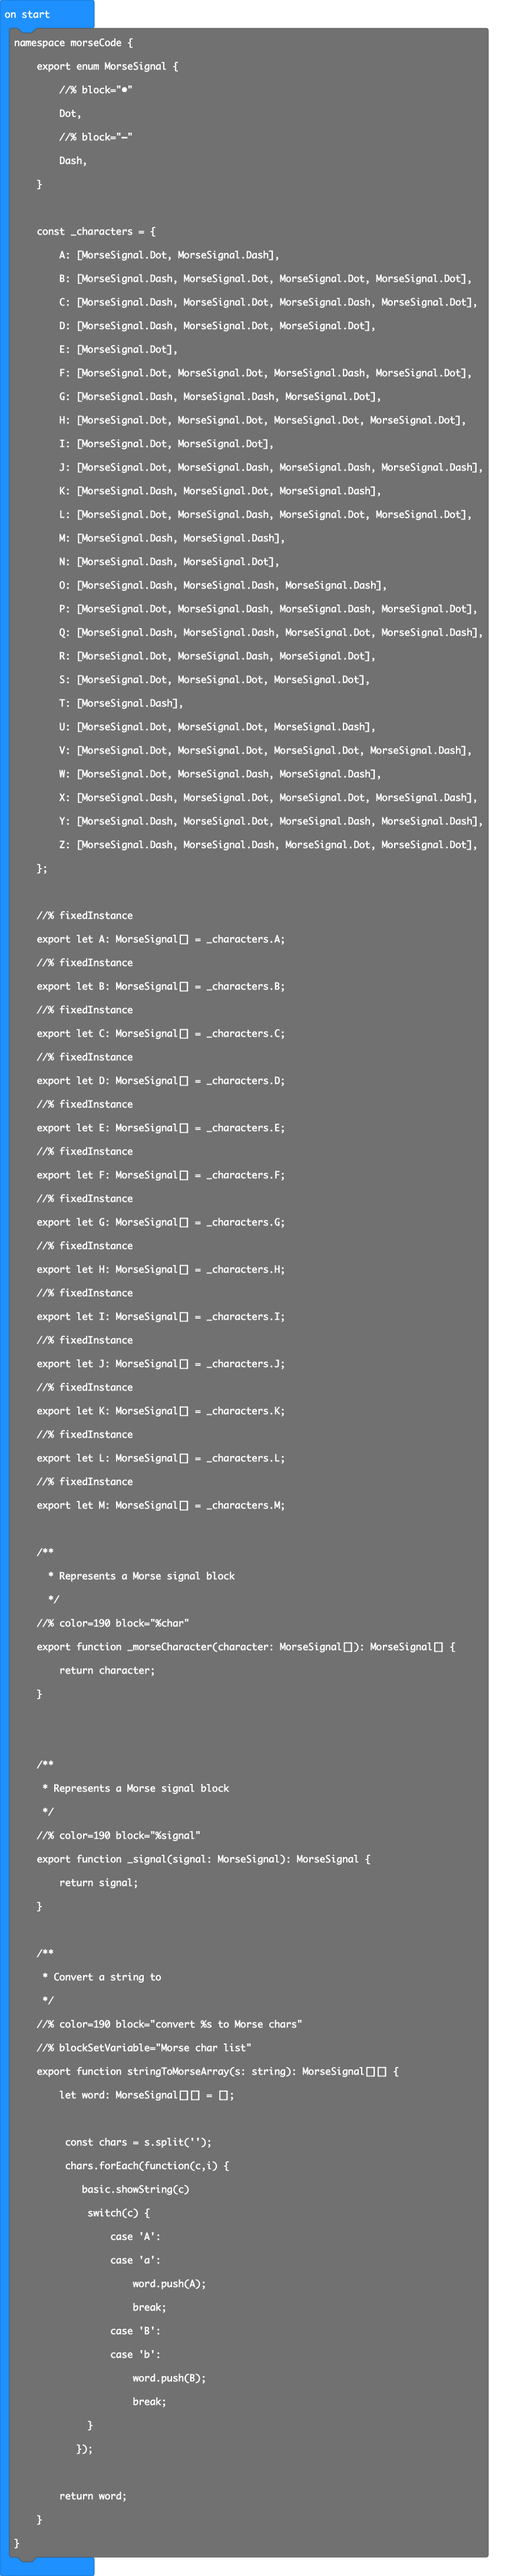
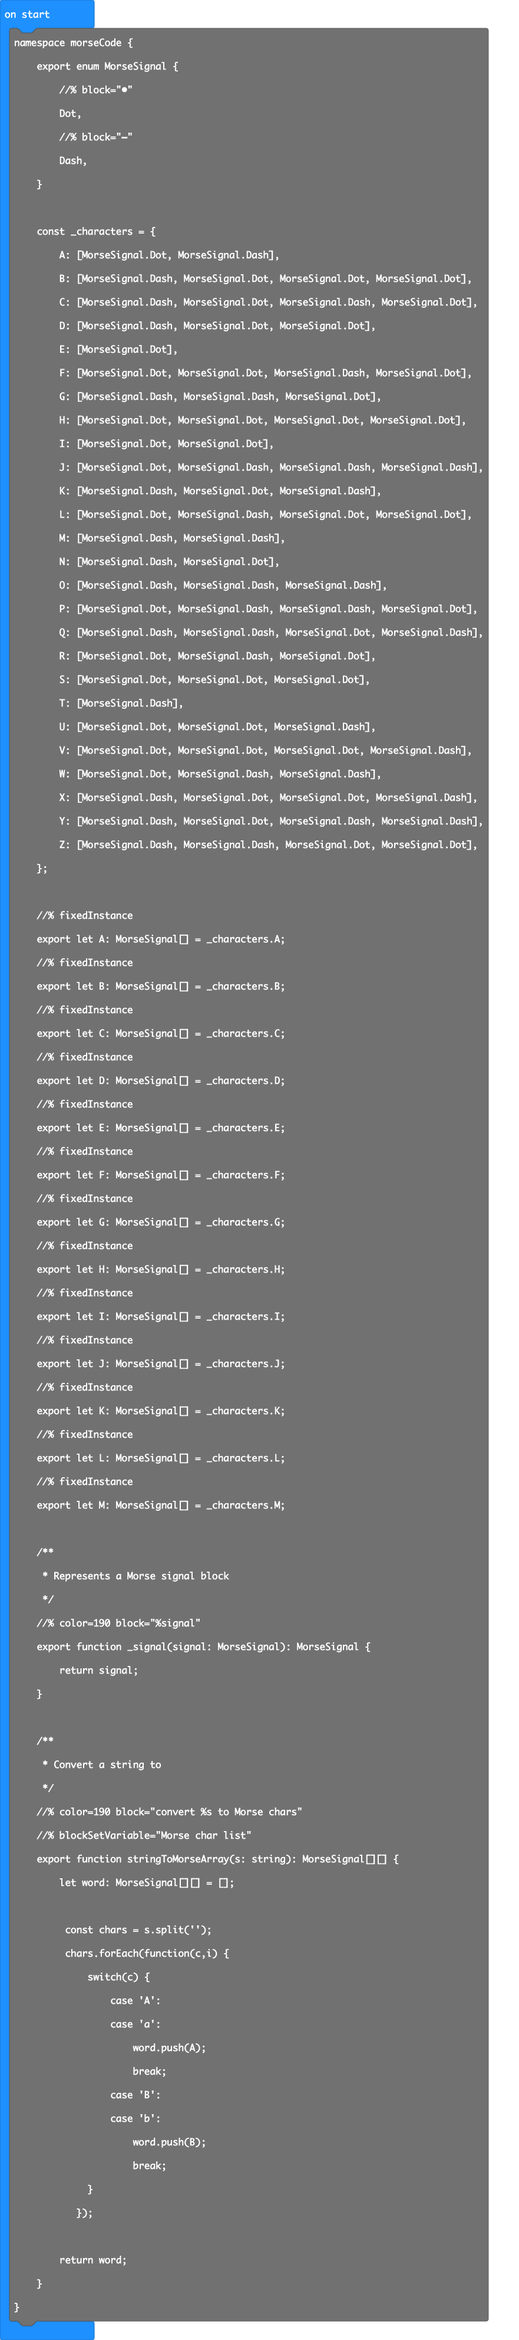
done with initial version

diff --git a/main.ts b/main.ts
@@ -61,14 +61,32 @@ namespace morseCode {
     export let L: MorseSignal[] = _characters.L;
     //% fixedInstance
     export let M: MorseSignal[] = _characters.M;
-
-    /**
-      * Represents a Morse signal block
-      */
-    //% color=190 block="%char"
-    export function _morseCharacter(character: MorseSignal[]): MorseSignal[] {
-        return character;
-    }
+    //% fixedInstance
+    export let N: MorseSignal[] = _characters.N;
+    //% fixedInstance
+    export let O: MorseSignal[] = _characters.O;
+    //% fixedInstance
+    export let P: MorseSignal[] = _characters.P;
+    //% fixedInstance
+    export let Q: MorseSignal[] = _characters.Q;
+    //% fixedInstance
+    export let R: MorseSignal[] = _characters.R;
+    //% fixedInstance
+    export let S: MorseSignal[] = _characters.S;
+    //% fixedInstance
+    export let T: MorseSignal[] = _characters.T;
+    //% fixedInstance
+    export let U: MorseSignal[] = _characters.U;
+    //% fixedInstance
+    export let V: MorseSignal[] = _characters.V;
+    //% fixedInstance
+    export let W: MorseSignal[] = _characters.W;
+    //% fixedInstance
+    export let X: MorseSignal[] = _characters.X;
+    //% fixedInstance
+    export let Y: MorseSignal[] = _characters.Y;
+    //% fixedInstance
+    export let Z: MorseSignal[] = _characters.Z;
 
 
     /**
@@ -87,20 +105,115 @@ namespace morseCode {
     export function stringToMorseArray(s: string): MorseSignal[][] {
         let word: MorseSignal[][] = [];
         
-         const chars = s.split('');
-         chars.forEach(function(c,i) {
-            basic.showString(c)
-             switch(c) {
-                 case 'A':
-                 case 'a':
-                     word.push(A);
-                     break;
-                 case 'B':
-                 case 'b': 
-                     word.push(B);
-                     break;
-             }
-           });
+        const chars = s.split('');
+        chars.forEach(function(c,i) {
+            switch(c) {
+                case 'A':
+                case 'a':
+                    word.push(A);
+                    break;
+                case 'B':
+                case 'b': 
+                    word.push(B);
+                    break;
+                case 'C':
+                case 'c':
+                    word.push(C);
+                    break;
+                case 'D':
+                case 'd':
+                    word.push(D);
+                    break;
+                case 'E':
+                case 'e':
+                    word.push(E);
+                    break;
+                case 'F':
+                case 'f':
+                    word.push(F);
+                    break;
+                case 'G':
+                case 'g':
+                    word.push(G);
+                    break;
+                case 'H':
+                case 'h':
+                    word.push(H);
+                    break;
+                case 'I':
+                case 'i':
+                    word.push(I);
+                    break;
+                case 'J':
+                case 'j':
+                    word.push(J);
+                    break;
+                case 'K':
+                case 'k':
+                    word.push(K);
+                    break;
+                case 'L':
+                case 'l':
+                    word.push(L);
+                    break;
+                case 'M':
+                case 'm':
+                    word.push(M);
+                    break;
+                case 'N':
+                case 'n':
+                    word.push(N);
+                    break;
+                case 'O':
+                case 'o':
+                    word.push(O);
+                    break;
+                case 'P':
+                case 'p':
+                    word.push(P);
+                    break;
+                case 'Q':
+                case 'q':
+                    word.push(Q);
+                    break;
+                case 'R':
+                case 'r':
+                    word.push(R);
+                    break;
+                case 'S':
+                case 's':
+                    word.push(S);
+                    break;
+                case 'T':
+                case 't':
+                    word.push(T);
+                    break;
+                case 'U':
+                case 'u':
+                    word.push(U);
+                    break;
+                case 'V':
+                case 'v':
+                    word.push(V);
+                    break;
+                case 'W':
+                case 'w':
+                    word.push(W);
+                    break;
+                case 'X':
+                case 'x':
+                    word.push(X);
+                    break;
+                case 'Y':
+                case 'y':
+                    word.push(Y);
+                    break;
+                case 'Z':
+                case 'z':
+                    word.push(Z);
+                    break;
+            }
+        });
            
         return word;
     }
